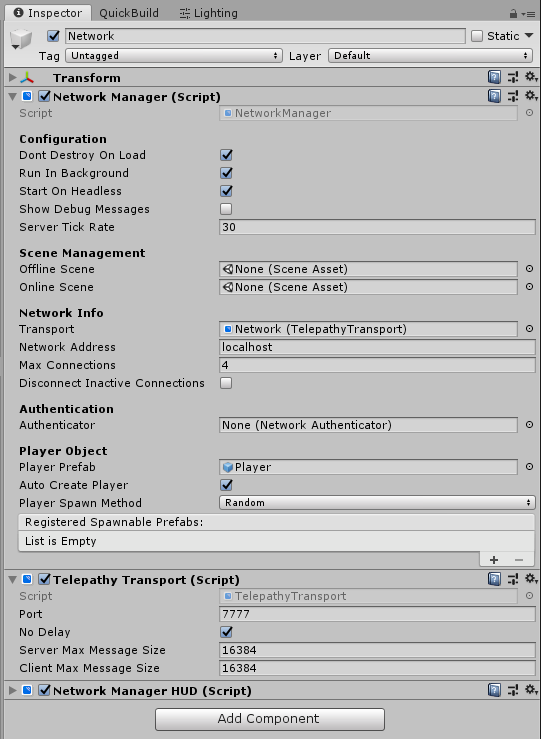
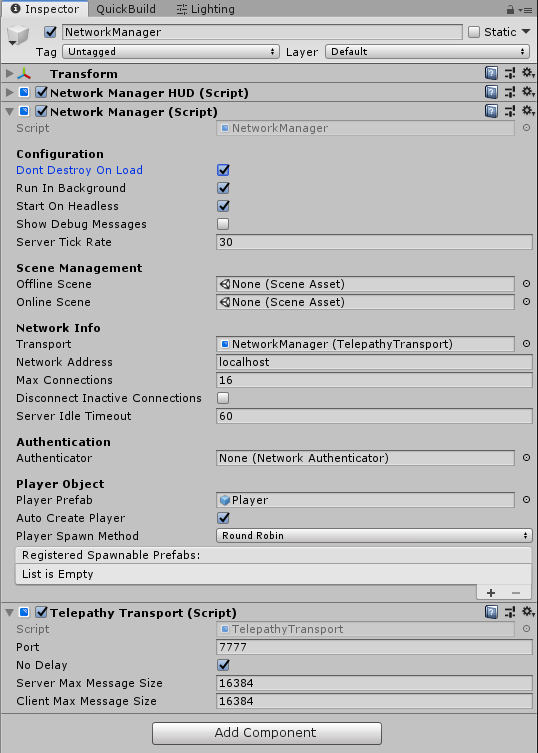
Moved serverIdleTimeout to NetworkManager

Changed region(s): [[0.0, 0.0, 1.0, 1.0]]

diff --git a/Assets/Mirror/Runtime/NetworkManager.cs b/Assets/Mirror/Runtime/NetworkManager.cs
@@ -102,10 +102,19 @@ namespace Mirror
         public int maxConnections = 4;
 
         /// <summary>
-        /// Should the server disconnect remote connections that have gone silent for more than 1 minute?
+        /// Should the server disconnect remote connections that have gone silent for more than Server Idle Timeout?
         /// </summary>
-        [Tooltip("Server Only - Disconnects remote connections that have been silent for more than 1 minute")]
+        [Tooltip("Server Only - Disconnects remote connections that have been silent for more than Server Idle Timeout")]
         public bool disconnectInactiveConnections;
+
+        /// <summary>
+        /// Timeout in seconds since last message from a client after which server will auto-disconnect.
+        /// <para>By default, clients send at least a Ping message every 2 seconds.</para>
+        /// <para>The Host client is immune from idle timeout disconnection.</para>
+        /// <para>Default value is 60 seconds.</para>
+        /// </summary>
+        [Tooltip("Timeout in seconds since last message from a client after which server will auto-disconnect if Disconnect Inactive Connections is enabled.")]
+        public float serverIdleTimeout = 60f;
 
         [Header("Authentication")]
         [Tooltip("Authentication component attached to this object")]

diff --git a/Assets/Mirror/Runtime/NetworkConnection.cs b/Assets/Mirror/Runtime/NetworkConnection.cs
@@ -22,14 +22,6 @@ namespace Mirror
         Dictionary<int, NetworkMessageDelegate> messageHandlers;
 
         /// <summary>
-        /// Timeout in seconds since last message from a client after which server will auto-disconnect.
-        /// <para>By default, clients send at least a Ping message every 2 seconds.</para>
-        /// <para>The Host client is immune from idle timeout disconnection.</para>
-        /// <para>Default value is 60 seconds.</para>
-        /// </summary>
-        public float serverIdleTimeout = 60f;
-
-        /// <summary>
         /// Unique identifier for this connection that is assigned by the transport layer.
         /// </summary>
         /// <remarks>

diff --git a/Assets/Mirror/Tests/Runtime/NetworkServerTest.cs b/Assets/Mirror/Tests/Runtime/NetworkServerTest.cs
@@ -30,9 +30,11 @@ namespace Mirror.Tests
             // Set high ping frequency so no NetworkPingMessage is generated
             NetworkTime.PingFrequency = 5f;
 
+            // Set a short timeout for this test
+            NetworkManager.singleton.serverIdleTimeout = 1f;
+
             GameObject remotePlayer = new GameObject("RemotePlayer", typeof(NetworkIdentity));
             NetworkConnectionToClient remoteConnection = new NetworkConnectionToClient(1);
-            remoteConnection.serverIdleTimeout = 1f;
             NetworkServer.OnConnected(remoteConnection);
             NetworkServer.AddPlayerForConnection(remoteConnection, remotePlayer);
 

diff --git a/Assets/Mirror/Runtime/NetworkConnectionToClient.cs b/Assets/Mirror/Runtime/NetworkConnectionToClient.cs
@@ -17,7 +17,7 @@ namespace Mirror
         // Failsafe to kick clients that have stopped sending anything to the server.
         // Clients ping the server every 2 seconds but transports are unreliable
         // when it comes to properly generating Disconnect messages to the server.
-        internal override bool IsClientAlive() => Time.time - lastMessageTime < serverIdleTimeout;
+        internal override bool IsClientAlive() => Time.time - lastMessageTime < NetworkManager.singleton.serverIdleTimeout;
 
         internal override bool Send(ArraySegment<byte> segment, int channelId = Channels.DefaultReliable)
         {

diff --git a/doc/General/ChangeLog.md b/doc/General/ChangeLog.md
@@ -9,7 +9,7 @@ Mirror uses semantic versioning, and the versions shown here are those that were
 - Added: [SyncLists](../Guides/Sync/SyncLists.md) now have Find and FindAll functions.
 - Added: NetworkBehaviour now has OnStopServer and OnStopClient virtual methods
 - Added: Weaver now supports custom Reader & Writer for types in other assemblies
-- Added: Network Manager now has an optional setting to check for and disconnect remote connections that have gone silent
+- Added: Network Manager now has an optional setting to check for and disconnect remote connections that have gone silent for a specified interval.
 - Fixed: NetworkAnimator no longer double-fires SetTrigger / ResetTrigger on the host client
 - Fixed: Destroy is no longer invoked twice on the server for the player object.
 - Changed: NetworkBehaviour: `OnNetworkDestroy` was renamed to `OnStopClient`.
